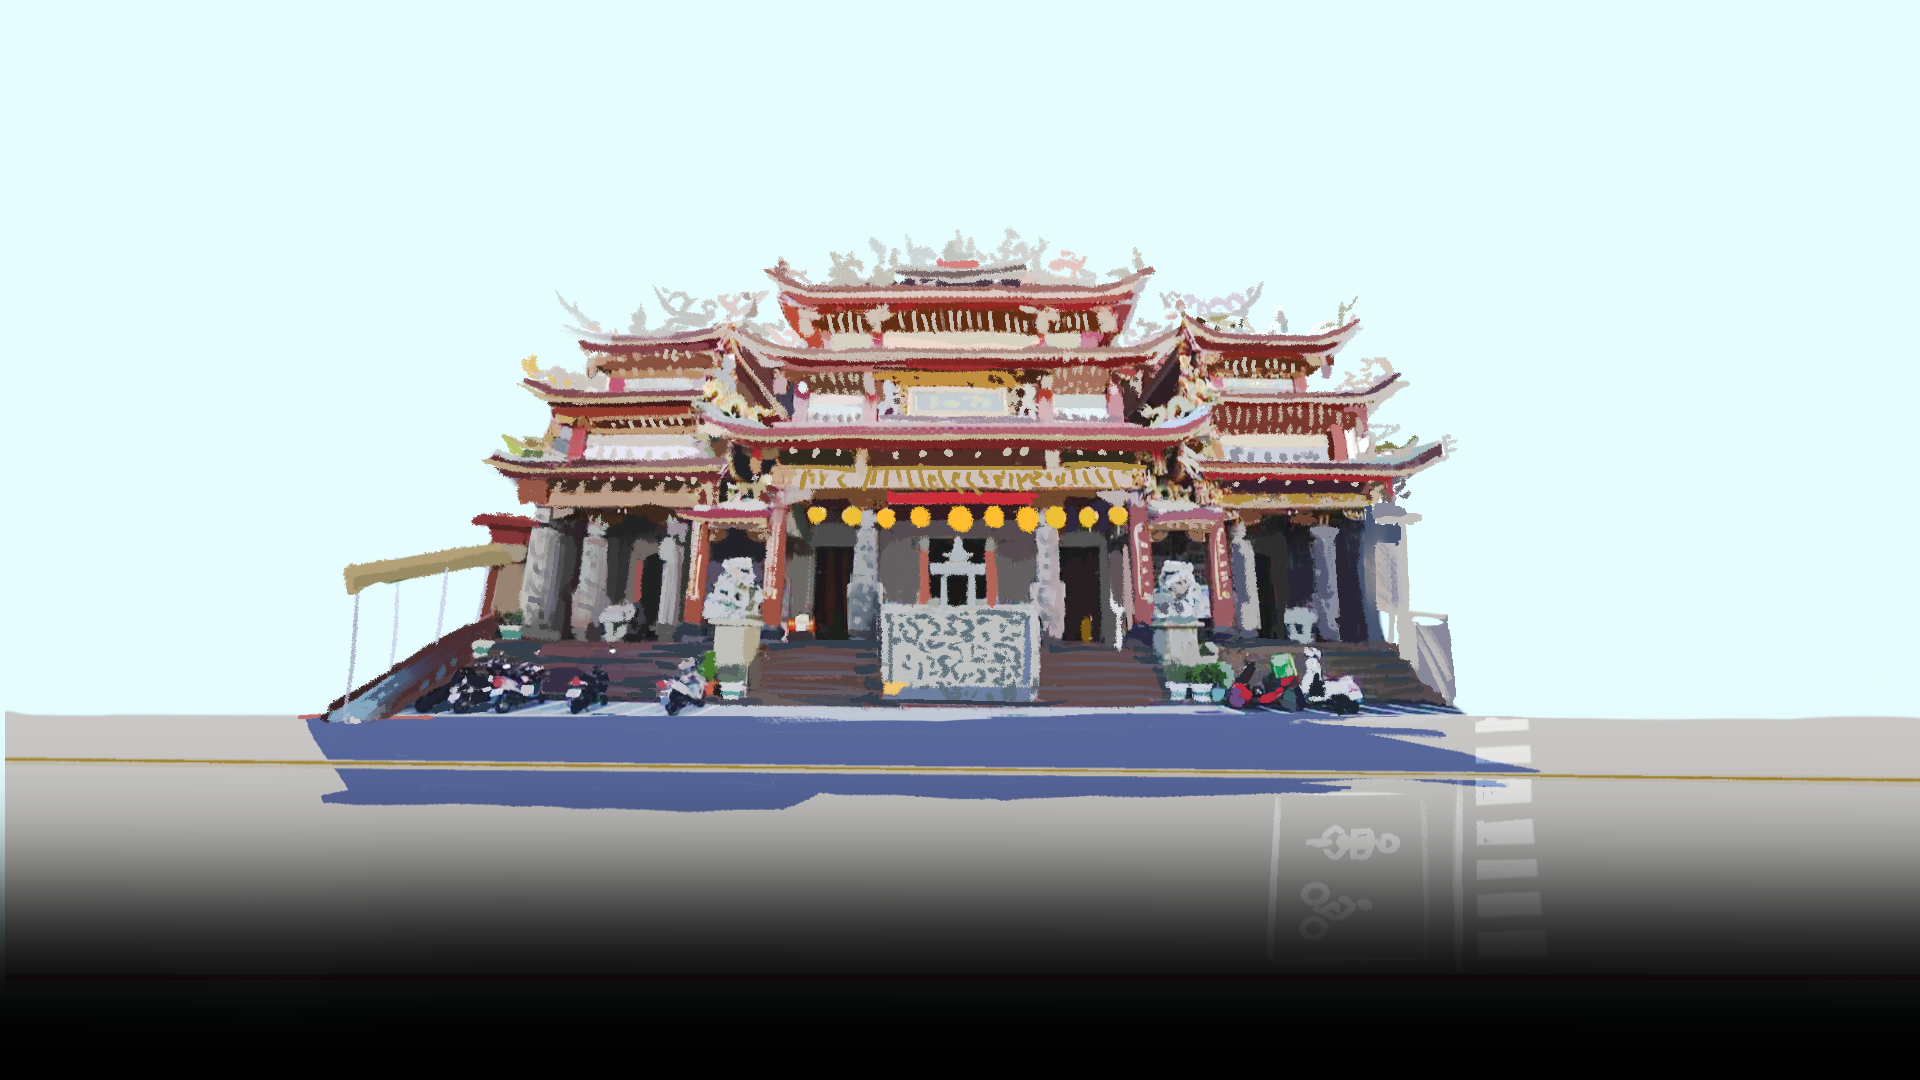
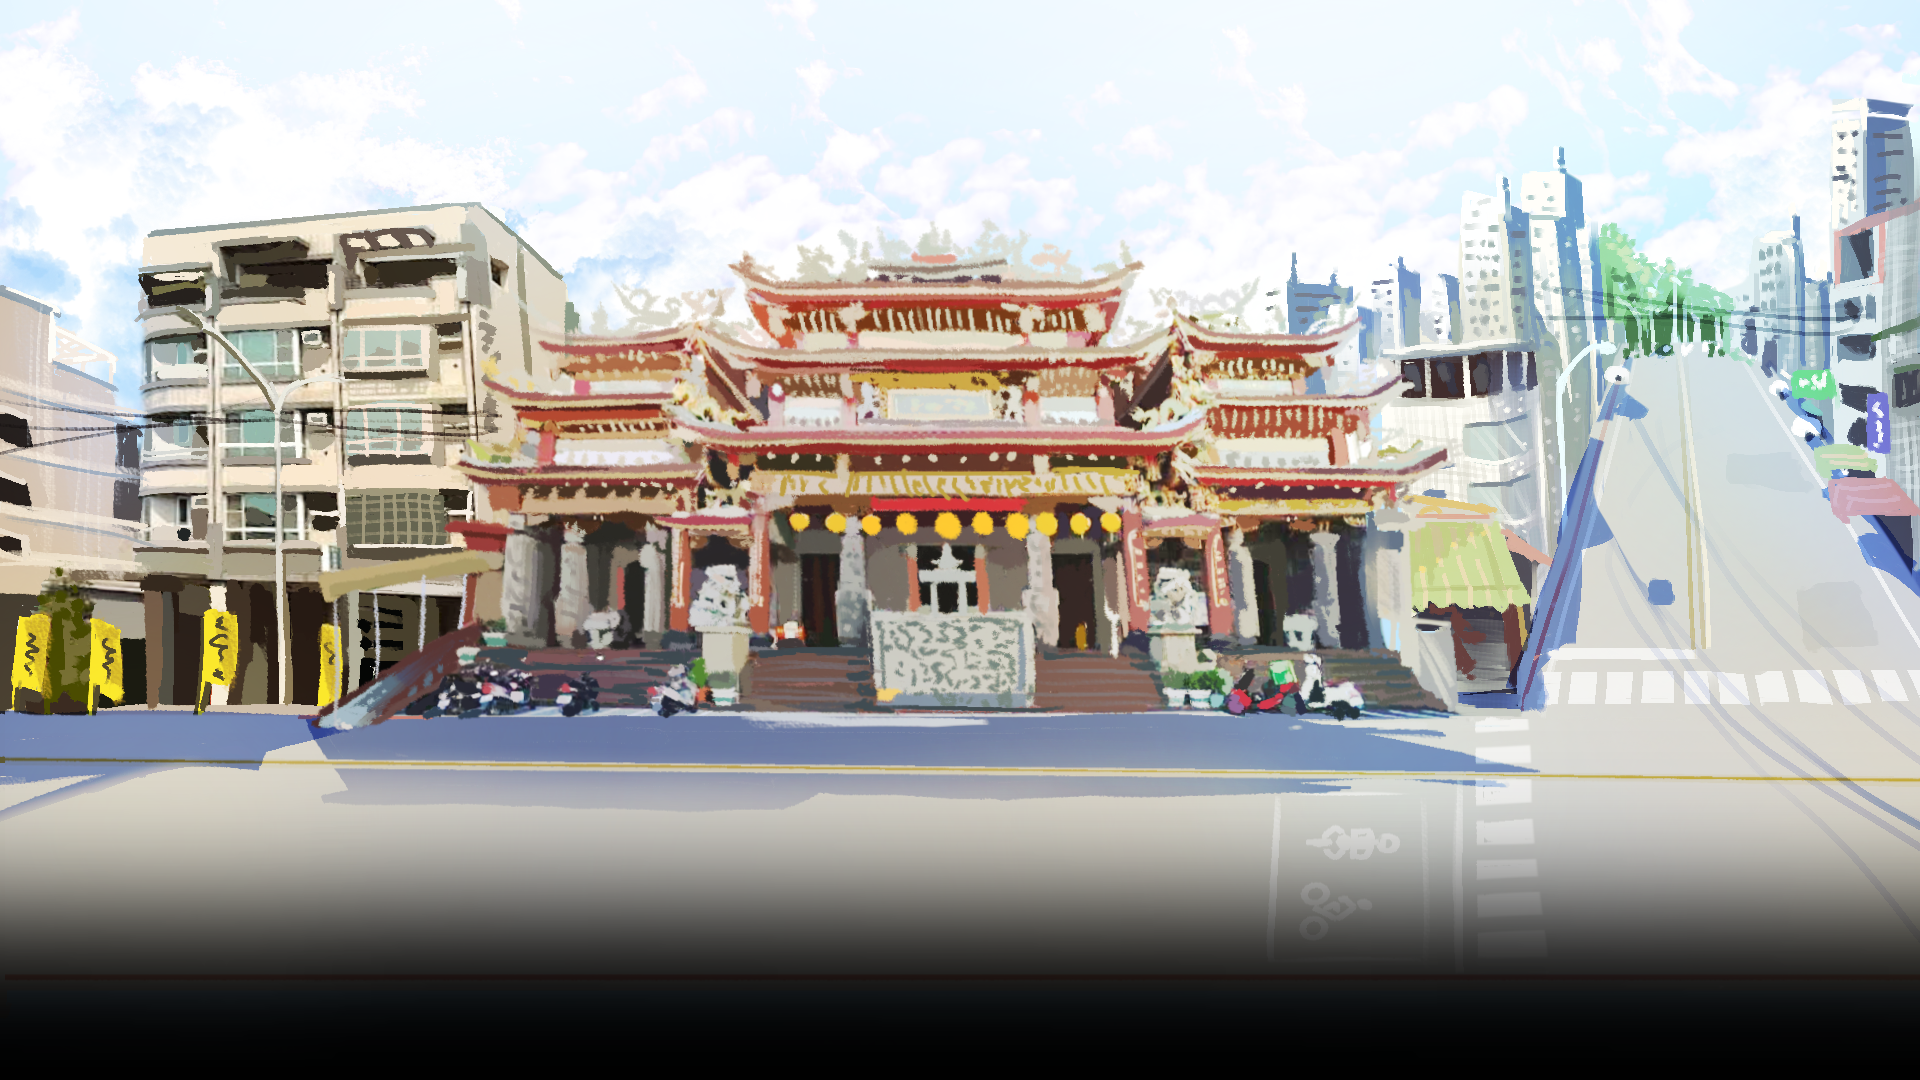
feat: new bg image

diff --git a/src/main.rs b/src/main.rs
@@ -32,8 +32,6 @@ pub struct ASound(pub Handle<AudioSource>);
 pub struct DSound(pub Handle<AudioSource>);
 
 fn main() {
-    test_ringcon();
-
     App::new()
         .add_event::<AttackEvent>()
         .add_plugins(DefaultPlugins)
